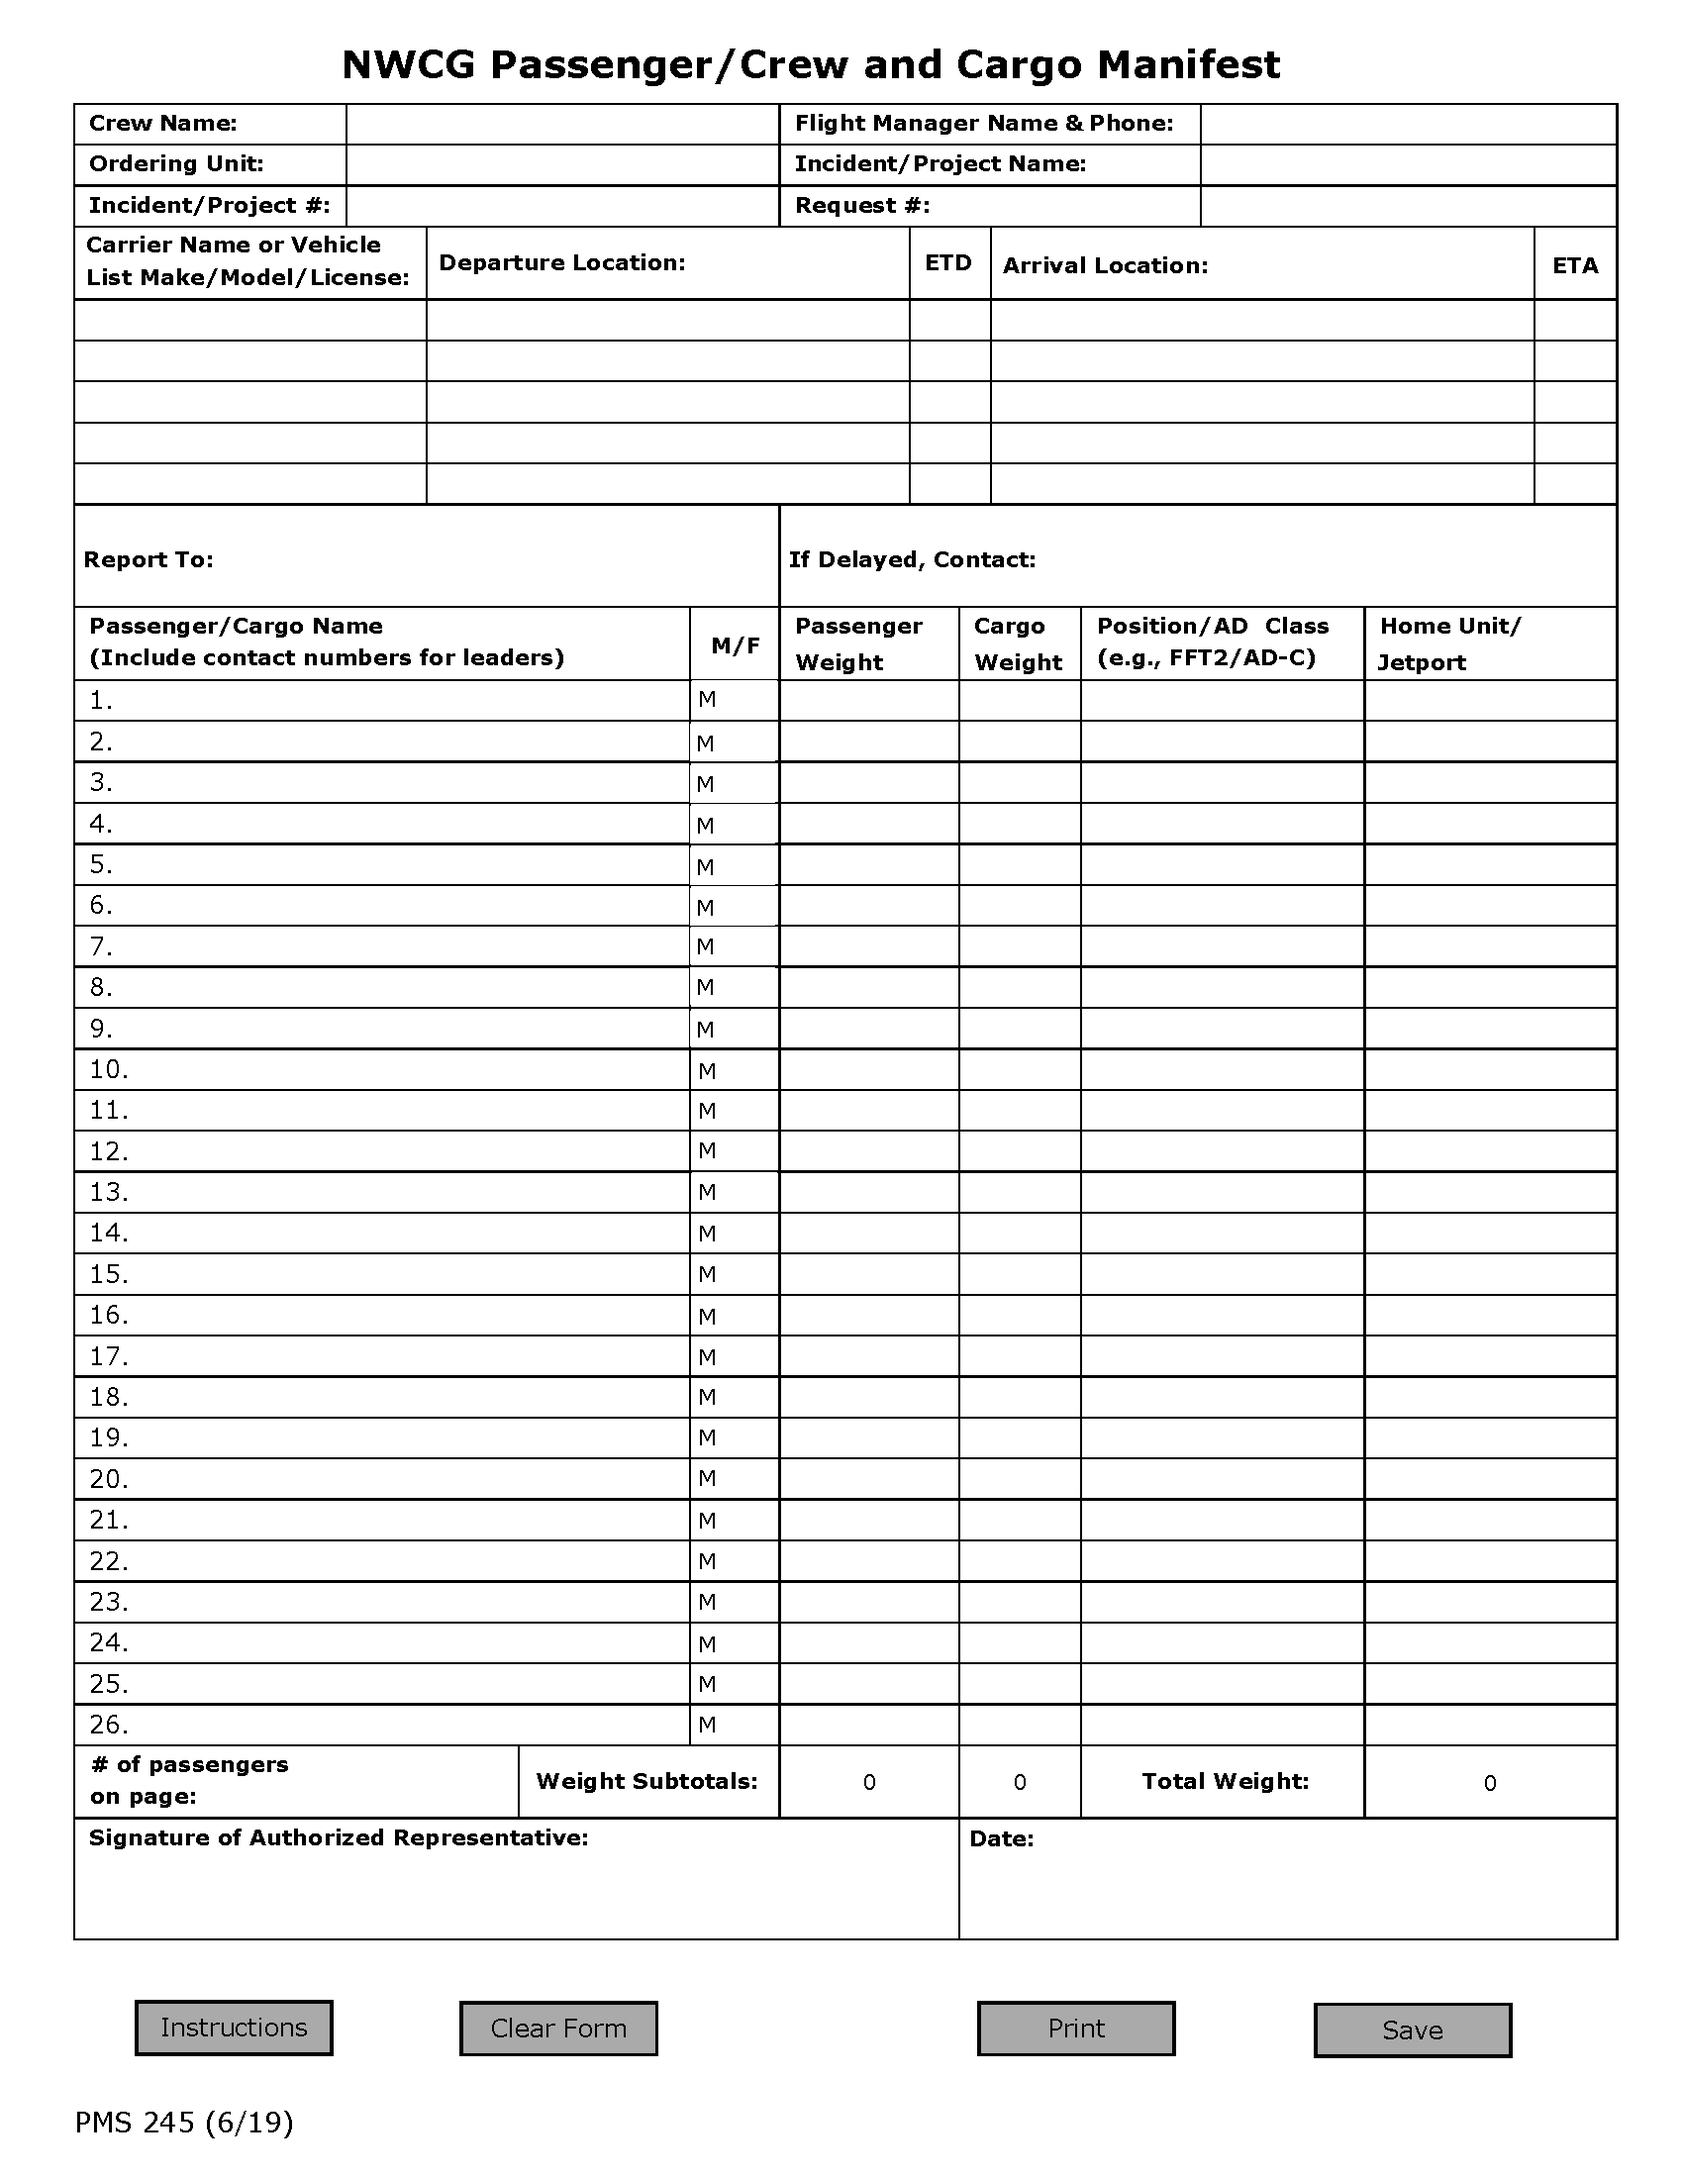
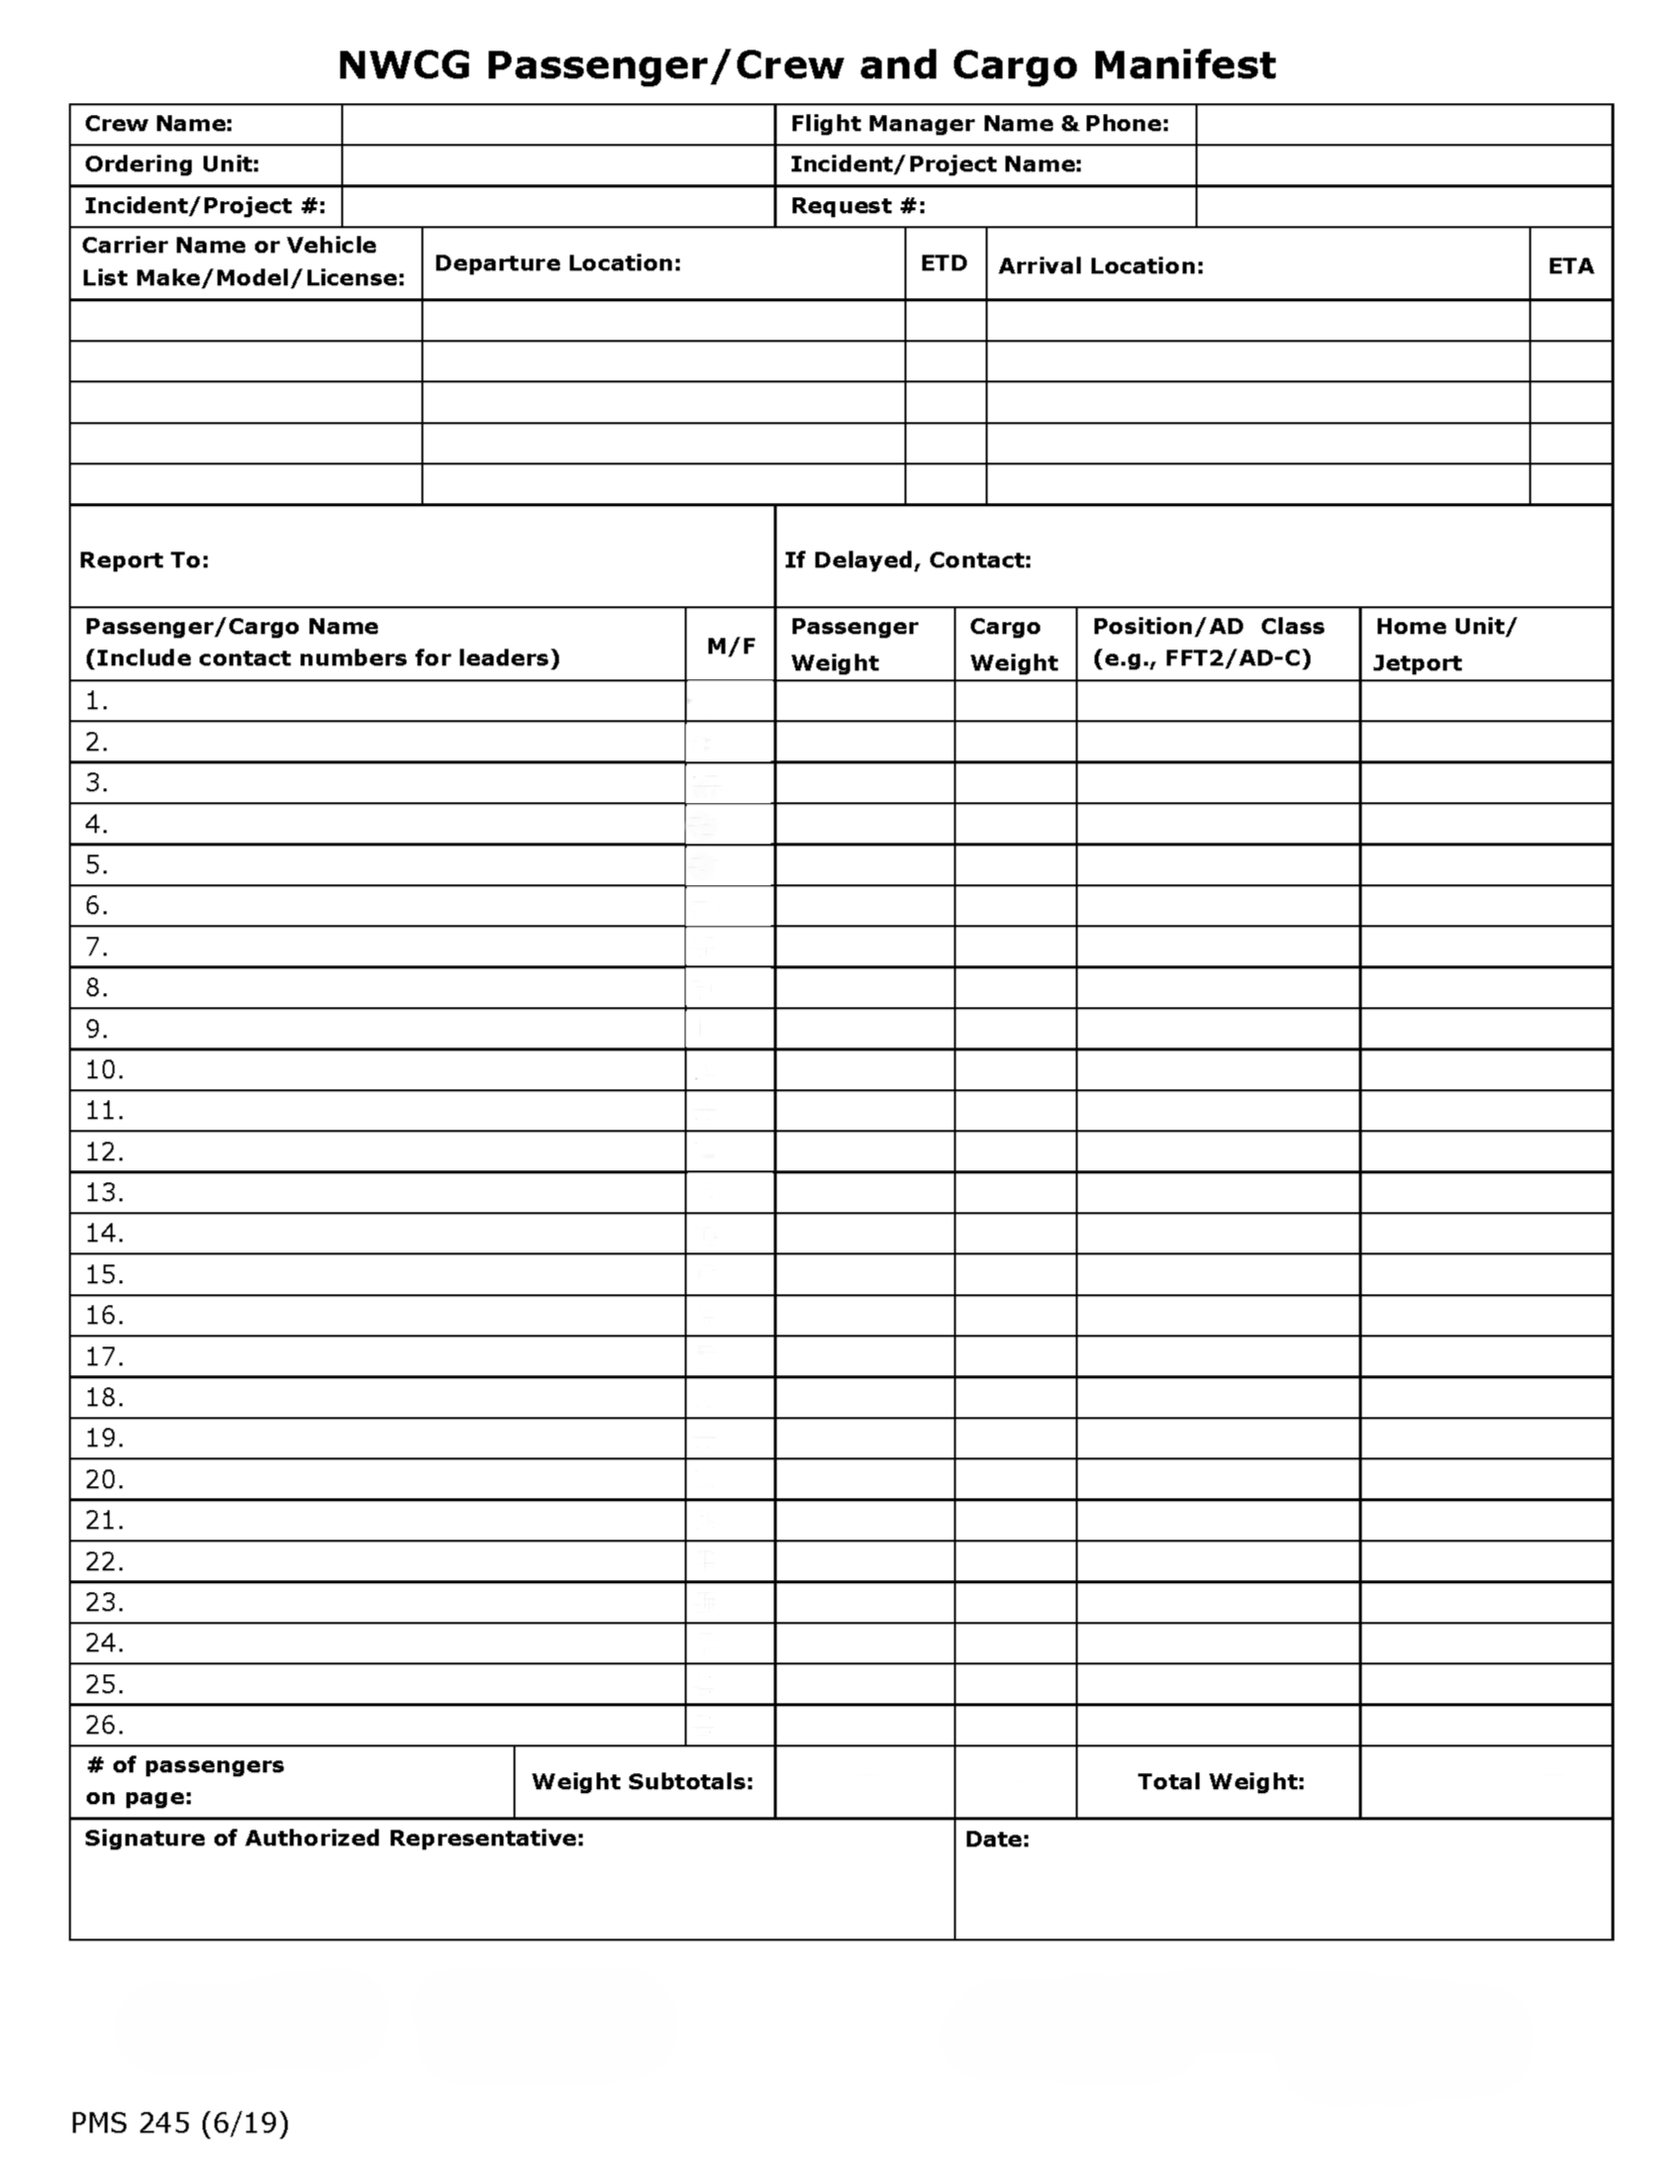
Update! -- Can now export loads to pdfs! (NWCG Crew Manifest Form)

diff --git a/lib/06_single_load_view.dart b/lib/06_single_load_view.dart
@@ -9,28 +9,34 @@ import 'package:pdf/widgets.dart' as pw;
 import 'package:printing/printing.dart';
 import 'dart:io';
 import 'package:flutter/services.dart' show rootBundle;
+import 'package:intl/intl.dart';
 
-// Function to generate the PDF
+// Generates PDF
 Future<Uint8List> generatePDF(Load load) async {
   final pdf = pw.Document();
 
   // Load the image of the NWCG form
+  // Need to edit form. Currently it says everyone is male -> 'M'
   final imageBytes = await rootBundle.load('assets/images/crew_manifest_form.png');
   final backgroundImage = pw.MemoryImage(imageBytes.buffer.asUint8List());
 
-  // Add content to the PDF with the image as the background
   pdf.addPage(
     pw.Page(
+      pageFormat: PdfPageFormat.letter,
+      margin: pw.EdgeInsets.all(0),
       build: (pw.Context context) {
         return pw.Stack(
           children: [
-            // Background image
-            pw.Positioned.fill(
-              child: pw.Image(backgroundImage, fit: pw.BoxFit.fitWidth),
+            pw.Container(
+              width: double.infinity,
+              height: double.infinity,
+              child: pw.Image(
+                backgroundImage,
+                fit: pw.BoxFit.cover, // Ensures image covers entire page
+              ),
             ),
-            // Overlay form fields
             pw.Padding(
-              padding: const pw.EdgeInsets.all(4),
+              padding: const pw.EdgeInsets.all(32),
               child: fillFormFields(load),
             ),
           ],
@@ -39,39 +45,121 @@ Future<Uint8List> generatePDF(Load load) async {
     ),
   );
 
-  // Save the PDF and return it as Uint8List
+  // Save PDF and return it as Uint8List
   return pdf.save();
 }
 
-// Function to display the PDF preview
+// Display PDF preview
 void previewPDF(BuildContext context, Load load) async {
   final pdfBytes = await generatePDF(load);
 
-  // Use the Printing package to show the PDF preview
   await Printing.layoutPdf(
     onLayout: (PdfPageFormat format) async => pdfBytes,
   );
 }
 
 pw.Widget fillFormFields(Load load) {
-  return pw.Column(
-    crossAxisAlignment: pw.CrossAxisAlignment.start,
-    children: [
-      // Example: Placing crew member data into the form
-      for (var i = 0; i < load.loadPersonnel.length; i++)
-        pw.Text(
-          "${i + 1}. ${load.loadPersonnel[i].name} - ${load.loadPersonnel[i].totalCrewMemberWeight} lbs",
-          style: pw.TextStyle(fontSize: 12),
-        ),
-      pw.SizedBox(height: 10), // Space between sections
+  const double yOffset = 65; // Adjust this value to move everything down
+  const double itemSpacing = 15; // Adjust this value to control spacing between items
 
-      // Example: Placing gear data into the form
-      pw.Text("Gear Items:", style: pw.TextStyle(fontSize: 12, fontWeight: pw.FontWeight.bold)),
-      for (var gear in load.loadGear)
-        pw.Text(
-          "${gear.name} - ${gear.weight} lbs",
+  int subtotalCrewMemberWeight = load.loadPersonnel.fold(0, (sum, crewMember) => sum + crewMember.flightWeight);
+  int subtotalGearWeight = load.loadGear.fold(0, (sum, gear) => sum + gear.weight);
+  DateTime today = DateTime.now();
+  String formattedDate = DateFormat('MM/dd/yyyy').format(today);
+
+  return pw.Stack(
+    children: [
+      // Crew Members
+      for (var i = 0; i < load.loadPersonnel.length; i++)
+        pw.Positioned(
+          left: 18,
+          top: yOffset + 150 + (i * itemSpacing),
+          child: pw.Text(
+            "${load.loadPersonnel[i].name}",
+            style: pw.TextStyle(fontSize: 12),
+          ),
+        ),
+      // Gear
+      for (var j = 0; j < load.loadGear.length; j++)
+        pw.Positioned(
+          left: 18,
+          top: yOffset + 150 + ((load.loadPersonnel.length + j) * itemSpacing),
+          child: pw.Text(
+            "${load.loadGear[j].name}",
+            style: pw.TextStyle(fontSize: 12),
+          ),
+        ),
+
+      // CrewMember Weights
+      for (var i = 0; i < load.loadPersonnel.length; i++)
+        pw.Positioned(
+          left: 267,
+          top: yOffset + 150 + (i * itemSpacing),
+          child: pw.Text(
+            "${load.loadPersonnel[i].flightWeight} lbs",
+            style: pw.TextStyle(fontSize: 12),
+          ),
+        ),
+      // Gear Weights
+      for (var j = 0; j < load.loadGear.length; j++)
+        pw.Positioned(
+          left: 323,
+          top: yOffset + 150 + ((load.loadPersonnel.length + j) * itemSpacing),
+          child: pw.Text(
+            "${load.loadGear[j].weight} lbs",
+            style: pw.TextStyle(fontSize: 12),
+          ),
+        ),
+
+      // Total Load Weight
+      pw.Positioned(
+        left: 494,
+        top: yOffset + 545,
+        child: pw.Text(
+        '${load.weight.toString()} lbs',
+        style: pw.TextStyle(fontSize: 12),
+      ),
+      ),
+
+      // # of passengers on page
+      pw.Positioned(
+        left: 110,
+        top: yOffset + 545,
+        child: pw.Text(
+          load.loadPersonnel.length.toString(),
           style: pw.TextStyle(fontSize: 12),
         ),
+      ),
+
+      // Weight subtotals: CrewMembers
+      pw.Positioned(
+        left: 260,
+        top: yOffset + 545,
+        child: pw.Text(
+          '${subtotalCrewMemberWeight.toString()} lbs',
+          style: pw.TextStyle(fontSize: 12),
+        ),
+      ),
+
+      // Weight subtotals: Gear
+      pw.Positioned(
+        left: 320,
+        top: yOffset + 545,
+        child: pw.Text(
+          '${subtotalGearWeight.toString()} lbs',
+          style: pw.TextStyle(fontSize: 12),
+        ),
+      ),
+
+      // Current date
+      pw.Positioned(
+        left: 390,
+        top: yOffset + 580,
+        child: pw.Text(
+          formattedDate.toString(),
+          style: pw.TextStyle(fontSize: 12),
+        ),
+      ),
     ],
   );
 }
